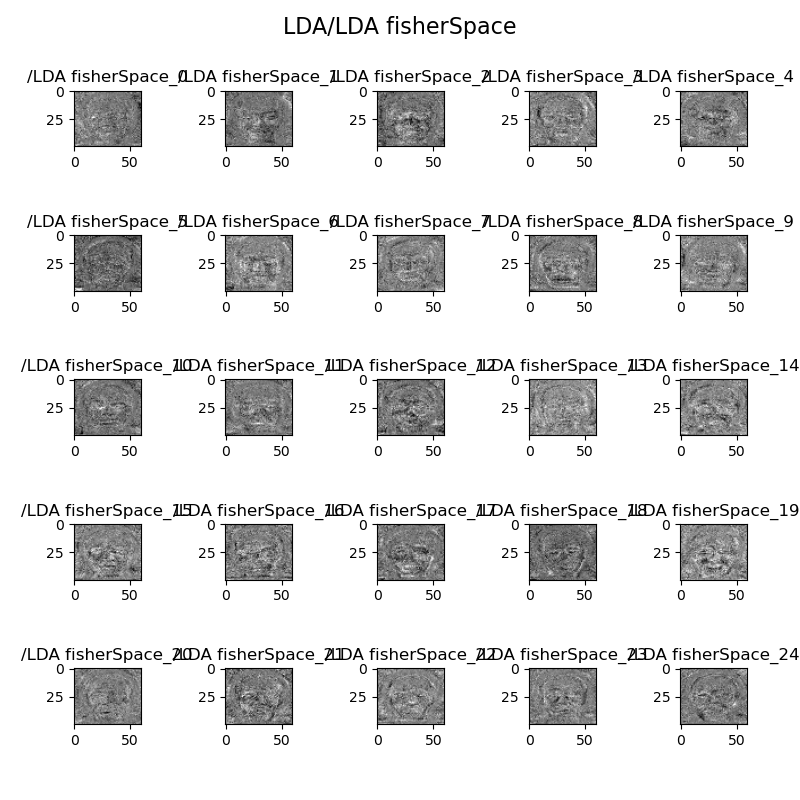
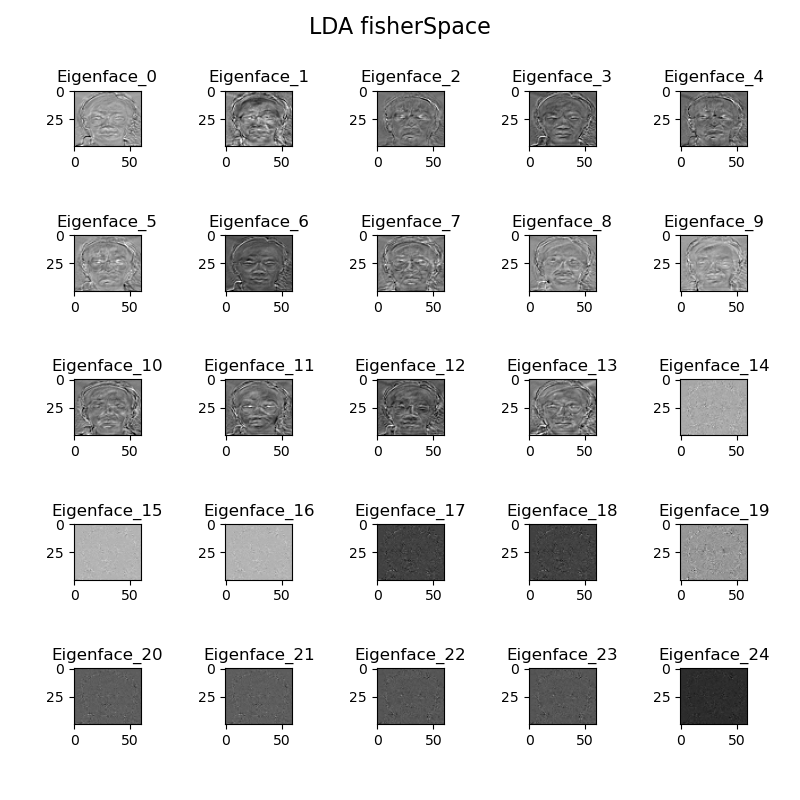
fixed Kernel PCA and LDA

diff --git a/KernelEigenfaces.py b/KernelEigenfaces.py
@@ -17,13 +17,11 @@ K = [1, 3, 5, 7]
 subjectNum = 15
 
 #RESIZE = (231, 195)
+#RESIZE = (100, 100)
 RESIZE = (60, 50)
 
 def readPGM(file):
     with open(file, "rb") as f:
-        # f.readline() # P5
-        # f.readline() # Comment line
-        # width, height = [int(i) for i in f.readline().split()]
         img = Image.open(f)
         img = img.resize(RESIZE, Image.ANTIALIAS)        
         imgArray = np.array(img)
@@ -77,10 +75,10 @@ def LDA(train, K):
     for index, value in enumerate(np.unique(label)):
         xi = train[:, np.where(label == value)[0]].T
         dist1 = xi - mean[index]
-        Sw += scipy.spatial.distance.cdist(dist1.T, dist1.T, 'euclidean')
+        Sw += dist1.T @ dist1
         
         dist2 = (mean[index] - overallMean).reshape(1, -1)
-        Sb += len(np.where(label == value)[0]) * scipy.spatial.distance.cdist(dist2.T, dist2.T, 'euclidean')
+        Sb += len(np.where(label == value)[0]) * dist2.T @ dist2
     
     # compute for the eigenVector
     fisherValue, fisherVector = np.linalg.eig(np.linalg.pinv(Sw) @ Sb)
@@ -114,12 +112,7 @@ def linearKernel(X, Y):
 def polynomialKernel(X, Y, gamma=1e-2, coef=0.1, degree=2):
     return np.power(gamma * (X @ Y.T) + coef, degree)
 
-def rbfKernel(X, Y, gamma=1e-8): #1 /(RESIZE[0] * RESIZE[1] * 255 * 255)
-    # dist = np.sum(X ** 2, axis=1).reshape(-1, 1) \
-    #     + np.sum(Y **2, axis=1) \
-    #         - 2 * X @ Y.T
-    # return np.exp(-gamma *  dist)
-    #print(scipy.spatial.distance.cdist(X, Y, 'sqeuclidean'))
+def rbfKernel(X, Y, gamma=1e-8): 
     return np.exp(-gamma * scipy.spatial.distance.cdist(X, Y, 'sqeuclidean'))
 
 def KernelPCA(train, K, method):
@@ -127,12 +120,13 @@ def KernelPCA(train, K, method):
     kernel = method(train.T, train.T)
     one = np.full((kernel.shape[0], kernel.shape[0]), 1 / train.shape[1])
     # make the data to be centered already
-    centeredKernel = kernel - one @ kernel - kernel @ one + one @ kernel @ one
-    eigenValue, eigenVector = np.linalg.eigh(centeredKernel)
+    #centeredKernel = kernel - one @ kernel - kernel @ one + one @ kernel @ one
+    #eigenValue, eigenVector = np.linalg.eigh(centeredKernel)
+    eigenValue, eigenVector = np.linalg.eigh(kernel)
     
-    index = np.argsort(-eigenValue)
+    index = np.argsort(eigenValue)[::-1]
     # already sorted due to the implementation of eigh
-    W = eigenVector[:, :K]
+    W = eigenVector[:, index[:K]].real
     return W, kernel
     
 def KernelLDA(train, K, method):
@@ -156,12 +150,12 @@ def drawEigenFace(eigenFace, K, title):
     fig, ax = plt.subplots(5, 5, figsize=(8, 8), squeeze=False)
     fig.tight_layout(pad = 3.0)
     
-    fig.suptitle(title, fontsize=16)
+    fig.suptitle(title[4:], fontsize=16)
     for i in range(K):
         # original image
         r, c = i // 5, i % 5
         ax[r][c].imshow(eigenFace[:, i].reshape(RESIZE[1], RESIZE[0]), cmap="gray")
-        ax[r][c].set_title(title[3:] + "_" + str(i))
+        ax[r][c].set_title("Eigenface_" + str(i))
     
     plt.subplots_adjust(top=0.9)
     plt.savefig(title)
@@ -176,14 +170,15 @@ def drawReconstructFace(avgFace, eigenFace, train, filename, randIndex, title):
         img = train[:, value]
         projection = eigenFace.T @ (img - avgFace)
         reFace = eigenFace @ projection + avgFace
-        
+        if title[:3] == "LDA":
+            reFace = eigenFace @ projection
         r, c = index // 5 * 2, index % 5
         ax[r][c].imshow(train[:, value].reshape(RESIZE[1], RESIZE[0]), cmap="gray")
         ax[r][c].set_title("original")
         
         ax[r+1][c].imshow(reFace.reshape(RESIZE[1], RESIZE[0]), cmap="gray")
         ax[r+1][c].set_title(filename[value])
-    plt.subplots_adjust(top=0.9)        
+    plt.subplots_adjust(top=0.9)      
     plt.savefig(title + "_Face_Reconstruct.png")
 
 if __name__ == '__main__':
@@ -204,18 +199,19 @@ if __name__ == '__main__':
         # PCA
         avgFace, eigenFace = PCA(train, 25)
         randIndex = np.random.choice(train.shape[1], 10, replace=False)
-        
+
         # ploting
         drawEigenFace(eigenFace, 25, "PCA/PCA EigenSpace")
         drawReconstructFace(avgFace, eigenFace, train, filename, randIndex, "PCA/PCA")
+        
         
         # # LDA
         avgFace, fisherFace = LDA(train, 25)
         randIndex = np.random.choice(train.shape[1], 10, replace=False)
         
         # ploting
-        drawEigenFace(fisherFace, 25, "LDA/LDA fisherSpace1")
-        drawReconstructFace(avgFace, fisherFace, train, filename, randIndex, "LDA/LDA1")
+        drawEigenFace(fisherFace, 25, "LDA/LDA fisherSpace")
+        drawReconstructFace(avgFace, fisherFace, train, filename, randIndex, "LDA/LDA")
     
     # face recognition, predict the test (knn) and output performance
     elif choice == "2":
@@ -237,6 +233,11 @@ if __name__ == '__main__':
     else:
         # Kernel PCA and LDA
         kernel = [linearKernel, polynomialKernel, rbfKernel]
+        
+        avgFace = np.mean(train, axis=1)
+        train = (train.T - avgFace).T
+        test = test - avgFace
+        
         for method in kernel:
             # PCA
             eigenFace, GramMatrix = KernelPCA(train, 25, method)
@@ -261,13 +262,11 @@ if __name__ == '__main__':
         
         
 
-
-"""
-#plt.imshow((avgFace).reshape(50, 60), cmap="gray")
-
-imgArray = readPGM("./Yale_Face_Database/Training/subject01.centerlight.pgm")
-test = readPGM("./Yale_Face_Database/Training/subject01.happy.pgm")
-
-"""
 #plt.imshow((train[0] - mean).reshape(231, 195), cmap="gray")
 
+#1 /(RESIZE[0] * RESIZE[1] * 255 * 255)
+    # dist = np.sum(X ** 2, axis=1).reshape(-1, 1) \
+    #     + np.sum(Y **2, axis=1) \
+    #         - 2 * X @ Y.T
+    # return np.exp(-gamma *  dist)
+    #print(scipy.spatial.distance.cdist(X, Y, 'sqeuclidean'))

diff --git a/tsne_python/tsne_experiment.py b/tsne_python/tsne_experiment.py
@@ -17,9 +17,11 @@ import numpy as np
 # for visualization
 import matplotlib.pyplot as plt
 from util import exportGif
+import os
 
 # Turn interactive plotting off
 plt.ioff()
+INITIAL_Y = 0
 
 def visualize(Y, labels, title, folder, filename):
     plt.clf()
@@ -119,7 +121,8 @@ def pca(X=np.array([]), no_dims=50):
     return Y
 
 
-def tsne(X=np.array([]), labels=np.array([]), no_dims=2, initial_dims=50, perplexity=30.0, plot=False):
+def tsne(X=np.array([]), labels=np.array([]), no_dims=2, initial_dims=50, perplexity=30.0, plot=False, filePath="2"):
+    global INITIAL_Y
     """
         Runs t-SNE on the dataset in the NxD array X to reduce its
         dimensionality to no_dims dimensions. The syntaxis of the function is
@@ -142,7 +145,11 @@ def tsne(X=np.array([]), labels=np.array([]), no_dims=2, initial_dims=50, perple
     final_momentum = 0.8
     eta = 500
     min_gain = 0.01
-    Y = np.random.randn(n, no_dims)
+    #Y = np.random.randn(n, no_dims)
+    if isinstance(INITIAL_Y, int):
+        INITIAL_Y = np.random.randn(n, no_dims)
+    Y = INITIAL_Y
+    
     dY = np.zeros((n, no_dims))
     iY = np.zeros((n, no_dims))
     gains = np.ones((n, no_dims))
@@ -195,13 +202,14 @@ def tsne(X=np.array([]), labels=np.array([]), no_dims=2, initial_dims=50, perple
             title = "t-SNE Embedding " + \
                     "perplexity=" + str(perplexity) \
                      + " iter=" + str(iter)
-            visualize(Y, labels, title, "2/tSNE2", "tSNE_" + str(iter) +".png")
+            visualize(Y, labels, title, filePath, "tSNE_" + str(iter) +".png")
 
     # Return solution
     return Y, P, Q
 
 # symmetric
-def sne(X=np.array([]), no_dims=2, initial_dims=50, perplexity=30.0):
+def sne(X=np.array([]), no_dims=2, initial_dims=50, perplexity=30.0, plot=False, filePath="2"):
+    global INITIAL_Y
     """
         Runs symmetric-SNE on the dataset in the NxD array X to reduce its
         dimensionality to no_dims dimensions. The syntaxis of the function is
@@ -224,7 +232,10 @@ def sne(X=np.array([]), no_dims=2, initial_dims=50, perplexity=30.0):
     final_momentum = 0.8
     eta = 500
     min_gain = 0.01
-    Y = np.random.randn(n, no_dims)
+    #Y = np.random.randn(n, no_dims)
+    if isinstance(INITIAL_Y, int):
+        INITIAL_Y = np.random.randn(n, no_dims)
+    Y = INITIAL_Y
     dY = np.zeros((n, no_dims))
     iY = np.zeros((n, no_dims))
     gains = np.ones((n, no_dims))
@@ -274,11 +285,11 @@ def sne(X=np.array([]), no_dims=2, initial_dims=50, perplexity=30.0):
         if iter == 100:
             P = P / 4.
             
-        if iter % 50 == 0:
+        if plot == True and iter % 50 == 0:
             title = "symmetric SNE Embedding " + \
                     "perplexity=" + str(perplexity) \
                      + " iter=" + str(iter)
-            visualize(Y, labels, title, "2/SNE2", "SNE_" + str(iter) +".png")
+            visualize(Y, labels, title, filePath, "SNE_" + str(iter) +".png")
 
     # Return solution
     return Y, P, Q
@@ -301,8 +312,10 @@ def plotSimilarity(P, Q, labels, subtitle, filepath, filename):
     axes[0][1].set_title("In Low dimension")
     
     fig.colorbar(im2, ax = axes.ravel().tolist())
-    plt.show()
+    #plt.show()
     plt.savefig(filepath + "/" + filename)
+   
+    
 
 if __name__ == "__main__":
     print("Run Y = tsne.tsne(X, no_dims, perplexity) to perform t-SNE on your dataset.")
@@ -310,18 +323,31 @@ if __name__ == "__main__":
     
     X = np.loadtxt("tsne_python/mnist2500_X.txt")
     labels = np.loadtxt("tsne_python/mnist2500_labels.txt")
-    # t-sne
-    Y, P, Q = tsne(X, labels, 2, 50, 20.0)
-    # visualize
-    #visualize(Y, labels, "t-SNE Embedding perplexity=30 iter 1000", "2/tSNE2", "tSNE_1000.png")
-    plotSimilarity(P, Q, labels, "tSNE pairwise similarity"\
-                   , "2", "tSNE similarity.png")
-    exportGif("2/tSNE2", "SNE")
     
-    # sne
-    _Y, _P, _Q = sne(X, 2, 50, 20.0)
-    # visualize
-    visualize(_Y, labels, "symmetric SNE Embedding perplexity=30 iter 1000", "2/SNE2", "SNE_1000.png")
-    plotSimilarity(_P, _Q, labels, "symmetric SNE pairwise similarity"\
-                   , "2", "symmetric similarity.png")
-    exportGif("2/SNE2", "SNE")
+    Perplexity = [5, 10, 50, 100]
+
+    for p in Perplexity:
+        if p != 5:
+            filePath = "2/tSNE_" + "perplexity_" + str(p)
+            if not os.path.exists(filePath):
+                os.makedirs(filePath)
+            
+            # t-sne
+            Y, P, Q = tsne(X, labels, 2, 50, p, True, filePath)
+            # visualize
+            visualize(Y, labels, "t-SNE Embedding perplexity="+str(p)+" iter 1000", filePath, "tSNE_1000.png")
+            plotSimilarity(P, Q, labels, "tSNE pairwise similarity"\
+                           , filePath, "tSNE similarity.png")
+            exportGif(filePath, "tSNE")
+        
+            # sne
+            filePath = "2/SNE_" + "perplexity_" + str(p)
+            if not os.path.exists(filePath):
+                os.makedirs(filePath)
+                
+            _Y, _P, _Q = sne(X, 2, 50, p, True, filePath)
+            # visualize
+            visualize(_Y, labels, "symmetric SNE Embedding perplexity="+str(p)+" iter 1000", filePath, "SNE_1000.png")
+            plotSimilarity(_P, _Q, labels, "symmetric SNE pairwise similarity"\
+                           , filePath, "symmetric similarity.png")
+            exportGif(filePath, "SNE")
